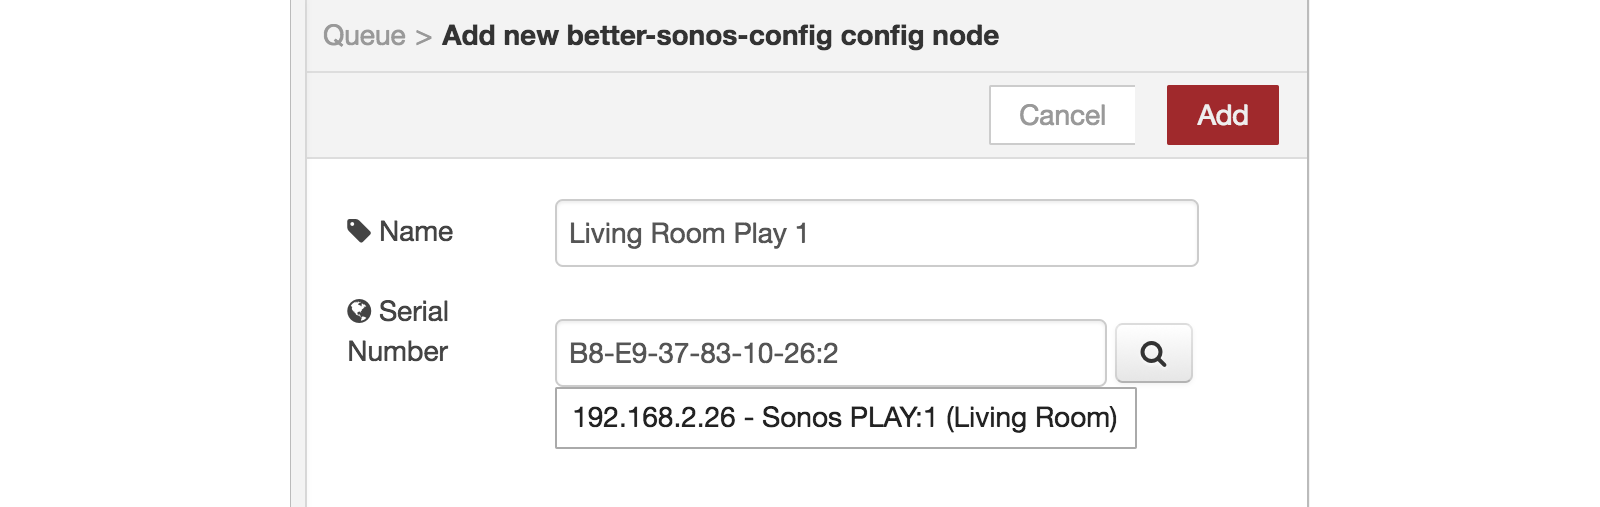
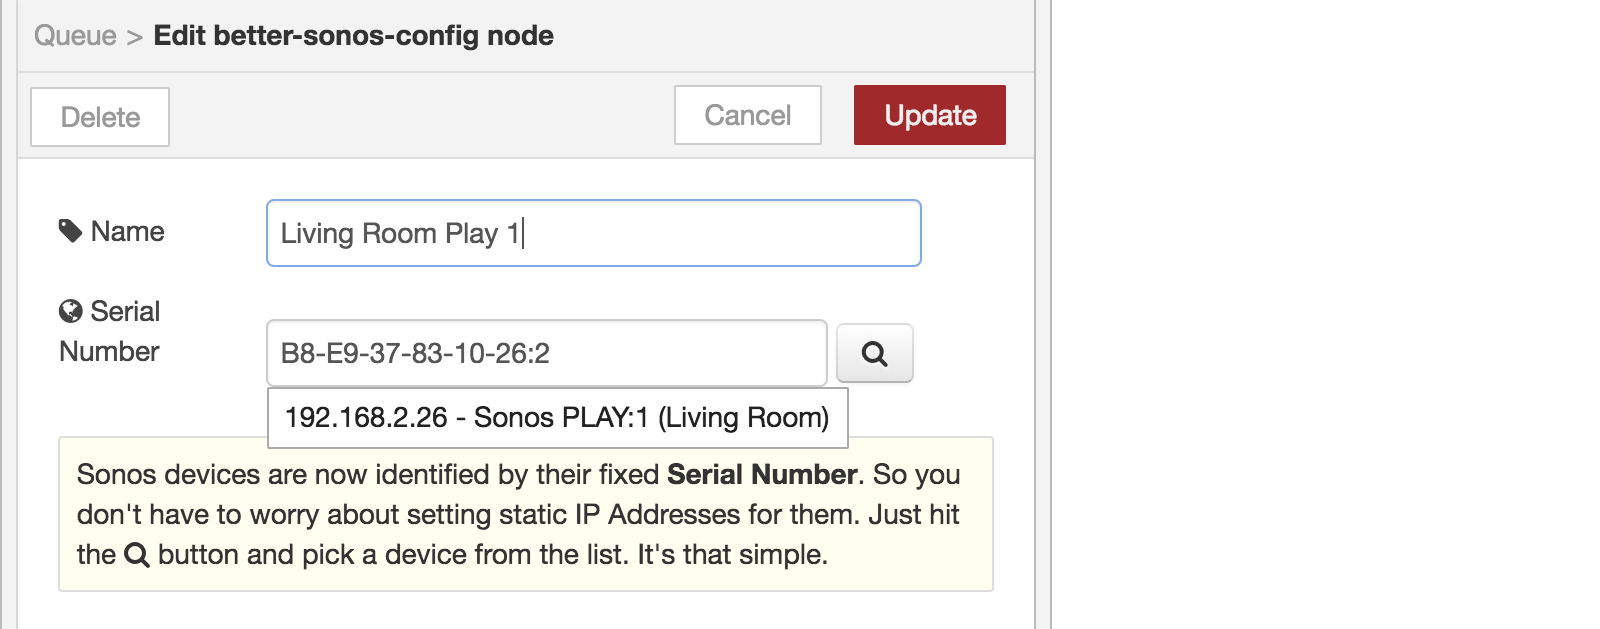
Update node info

diff --git a/sonos/sonos-config.html b/sonos/sonos-config.html
@@ -50,7 +50,11 @@
     </div>
     <div class="form-row">
         <label for="node-config-input-serialnum"><i class="fa fa-globe" aria-hidden="true"></i> Serial Number</label>
-        <input type="text" id="node-config-input-serialnum" style="width:60%;" placeholder="B8-E9-37-83-10-26:2">
+        <input type="text" id="node-config-input-serialnum" style="width:60%;" placeholder="B8-E9-37-xx-xx-xx:2">
         <a id="node-config-lookup-serialnum" class="btn"><i id="node-config-lookup-serialnum-icon" class="fa fa-search"></i></a>
     </div>
+
+    <div><p></p></div>
+
+    <div class="form-tips">Sonos devices are now identified by their fixed <strong>Serial Number</strong>. So you don't have to worry about setting static IP Addresses for them. Just hit the <i class="fa fa-search"></i> button and pick a device from the list. It's that simple.</div>
 </script>

diff --git a/sonos/sonos-control.html b/sonos/sonos-control.html
@@ -96,7 +96,10 @@
 
 <!-- Simple Help Text -->
 <script type="text/x-red" data-help-name="better-sonos-control">
-	<p>A node to control SONOS player</p>
+	<p>A node to control Sonos device</p>
+    <p>
+        This node is currently under development to make it more user-friendly
+    </p>
 	<p>This node enables basic controls for a certain SONOS player.</p>
 	<p>Data can be sent either via JSON to the node, or directly set within the node controls as a standard action.</p>
 	<p>Settings within the node will be overwritten by JSON messages in the payload</p>

diff --git a/sonos/sonos-status.html b/sonos/sonos-status.html
@@ -71,7 +71,7 @@
 
         <dt>normalized_volume <span class="property-type">float | 0-1</span></dt>
         <dd> normalized current volume value
-             <br/>value ranges from 0.0 to 1.0. Similar to above <strong><i>bri</i></strong> parameter, except this has been normalized to [0.0 - 1.0] range.
+             <br/>value ranges from 0.0 to 1.0. Similar to above <strong><i>volume</i></strong> parameter, except this has been normalized to [0.0 - 1.0] range.
         </dd>
         
         <dt>track 

diff --git a/sonos/sonos-queue.html b/sonos/sonos-queue.html
@@ -67,6 +67,10 @@
 
 <!-- Simple Help Text -->
 <script type="text/x-red" data-help-name="better-sonos-queue">
-	<p>A node for manipulating playlists/queues within Sonos</p>
-	<p>Please refer to the documentation within the sonos npm module for the functions queue() and queueNext()</p>
+	<p>
+        A node for manipulating playlists/queues within Sonos
+    </p>
+	<p>
+        This node is currently under development to make it more user-friendly
+    </p>
 </script>
